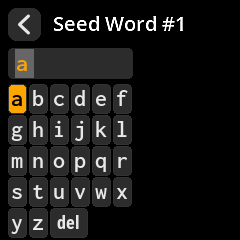
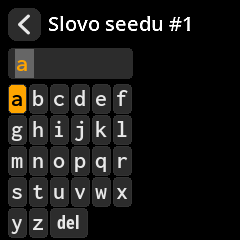
CS update

Changed region(s): [[0.2042, 0.0583, 0.8167, 0.1458]]

diff --git a/cs/README.md b/cs/README.md
@@ -1,5 +1,5 @@
 # SeedSigner Screenshots: Czech
-## Translation progress: 94.1%
+## Translation progress: 96.7%
 
 ---
 
